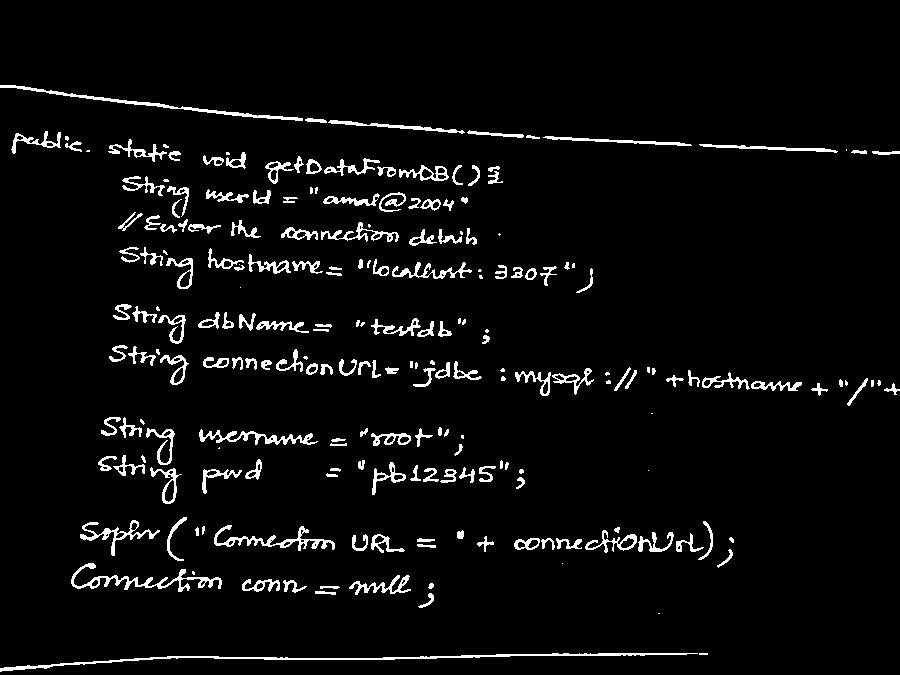
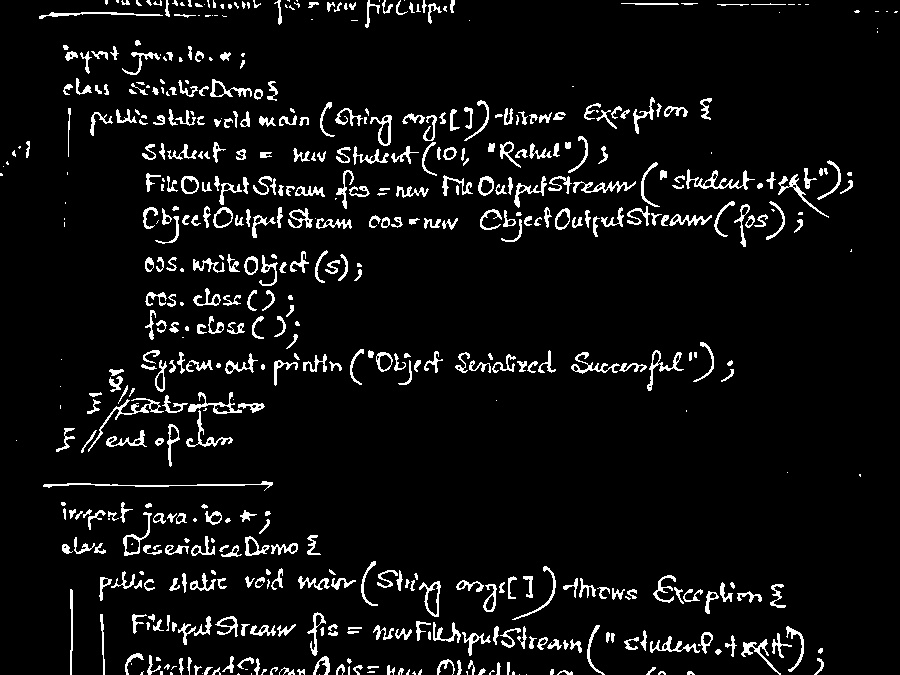
done some changes added image_loader then added readme..

diff --git a/image_processing/image_loader.py b/image_processing/image_loader.py
@@ -1,0 +1,33 @@
+import cv2
+from pathlib import Path
+
+
+SUPPORTED_IMAGE_FORMATS = {
+    ".jpg",
+    ".jpeg",
+    ".png"
+}
+
+
+def load_image(image_path: str) -> cv2.Mat:
+
+    path = Path(image_path)
+
+    if not path.exists():
+        raise FileNotFoundError(
+            f"File not found: {image_path}"
+        )
+
+    if path.suffix.lower() not in SUPPORTED_IMAGE_FORMATS:
+        raise ValueError(
+            f"Unsupported image format: {path.suffix}"
+        )
+
+    image = cv2.imread(str(path))
+
+    if image is None:
+        raise ValueError(
+            f"Could not read image: {image_path}"
+        )
+
+    return image

diff --git a/main.py b/main.py
@@ -1,6 +1,6 @@
 import cv2
 import matplotlib.pyplot as plt
-
+from image_processing.image_loader import load_image
 from image_processing.preprocessing import (
     load_and_preprocess
 )
@@ -19,9 +19,9 @@ from image_processing.detection import (
 # STEP 1: Load image
 # ==========================================
 
-image_path = "input/image5.jpeg"
+image_path = "input/image4.png"
 
-image = cv2.imread(image_path)
+image = load_image(image_path)
 
 if image is None:
     raise FileNotFoundError(

diff --git a/README.md b/README.md
@@ -1,0 +1,120 @@
+# Handwritten Marks Extraction
+
+A Python/OpenCV-based project for extracting handwritten student information and marks from standardized examination answer sheets.
+
+---
+
+# Setup Guide
+
+Follow the steps below to set up the project on a new computer.
+
+## 1. Check Whether Python Is Installed
+
+Before starting, check whether Python is already installed.
+
+Open **Command Prompt** or the **VS Code Terminal** and run:
+
+```bash
+python --version
+```
+
+=============================================================
+========================MAIN WORK STARTS HERE================
+
+# Handwritten Marks Extraction
+
+A Python/OpenCV-based project for extracting handwritten student information and marks from examination answer sheets.
+
+## Python Environment Setup
+
+The virtual environment (`.venv`) is **not included in this GitHub repository**.
+
+Each developer should create their own virtual environment after cloning the repository.
+
+### 1. Clone the repository
+
+```bash
+git clone https://github.com/Debastab0-2107/Handwritten-marks-extraction.git
+```
+
+Go into the project folder:
+
+```bash
+cd Handwritten-marks-extraction
+```
+
+### 2. Create a virtual environment
+
+Make sure Python is installed.
+
+Run:
+
+```bash
+python -m venv .venv
+```
+
+This creates a local virtual environment named `.venv`.
+
+### 3. Activate the virtual environment
+
+#### Windows
+
+```bash
+.venv\Scripts\activate
+```
+
+After activation, the terminal should show something similar to:
+
+```text
+(.venv) C:\...\Handwritten-marks-extraction>
+```
+
+### 4. Install the project dependencies
+
+The required Python packages are listed in `requirements.txt`.
+
+Run:
+
+```bash
+pip install -r requirements.txt
+```
+
+### 5. Run the project
+
+After activating the virtual environment and installing the dependencies:
+
+```bash
+python main.py
+```
+
+## Current Supported Image Formats
+
+The current image-processing pipeline supports:
+
+* `.jpg`
+* `.jpeg`
+* `.png`
+
+## PDF Support
+
+PDF processing is planned for a later stage of development.
+
+PDF-related dependencies such as `pdf2image` are **not required at the current stage**.
+
+## Important
+
+Do **not** commit the `.venv` folder to GitHub.
+
+The `.venv` folder is specific to each developer's computer.
+
+Each developer should create their own environment using:
+
+```bash
+python -m venv .venv
+```
+
+and then install the dependencies using:
+
+```bash
+pip install -r requirements.txt
+```
